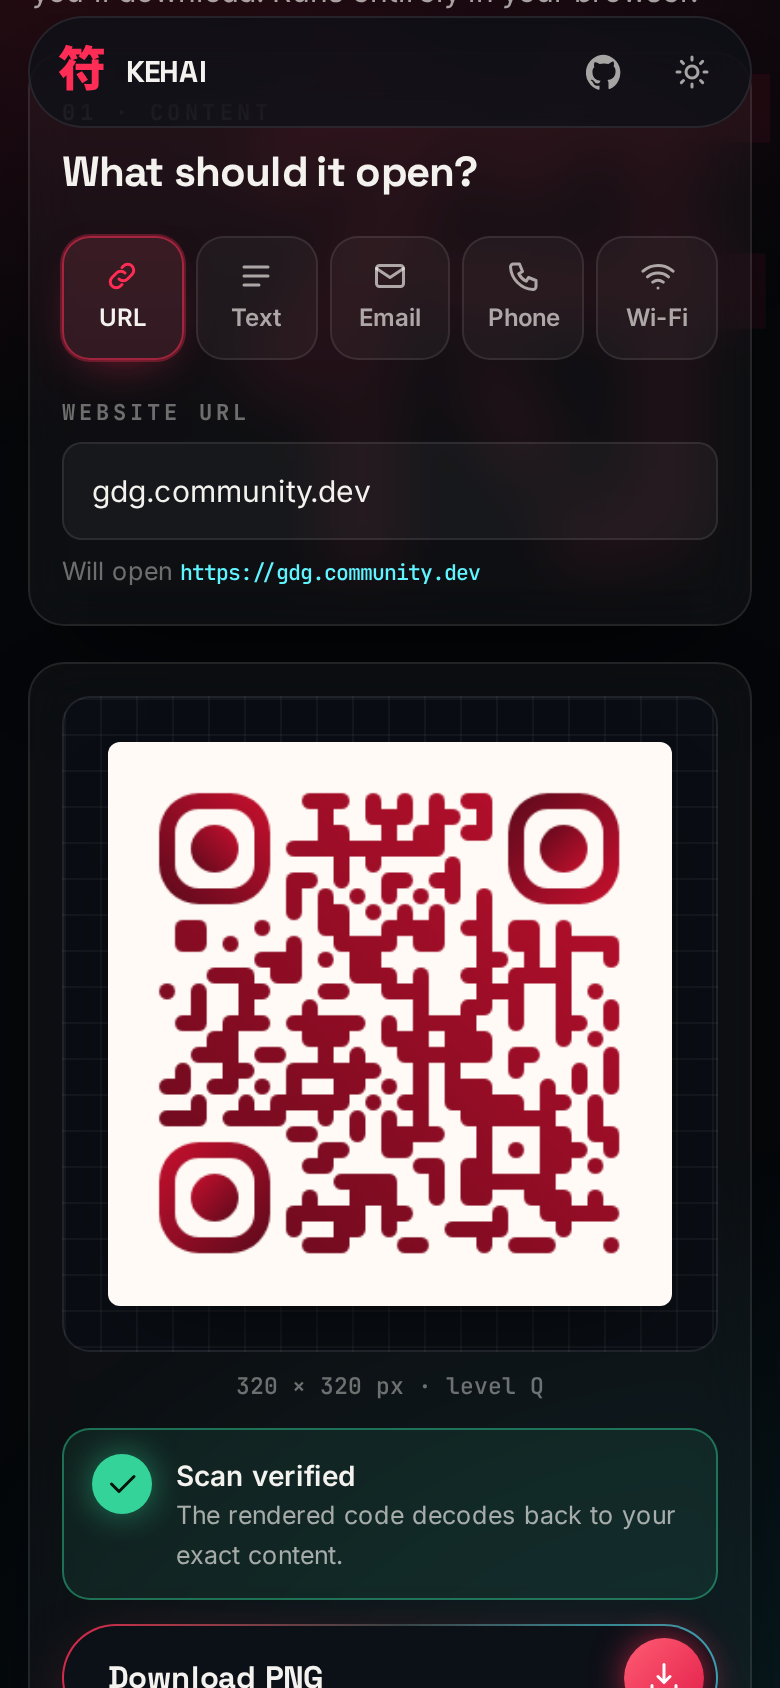
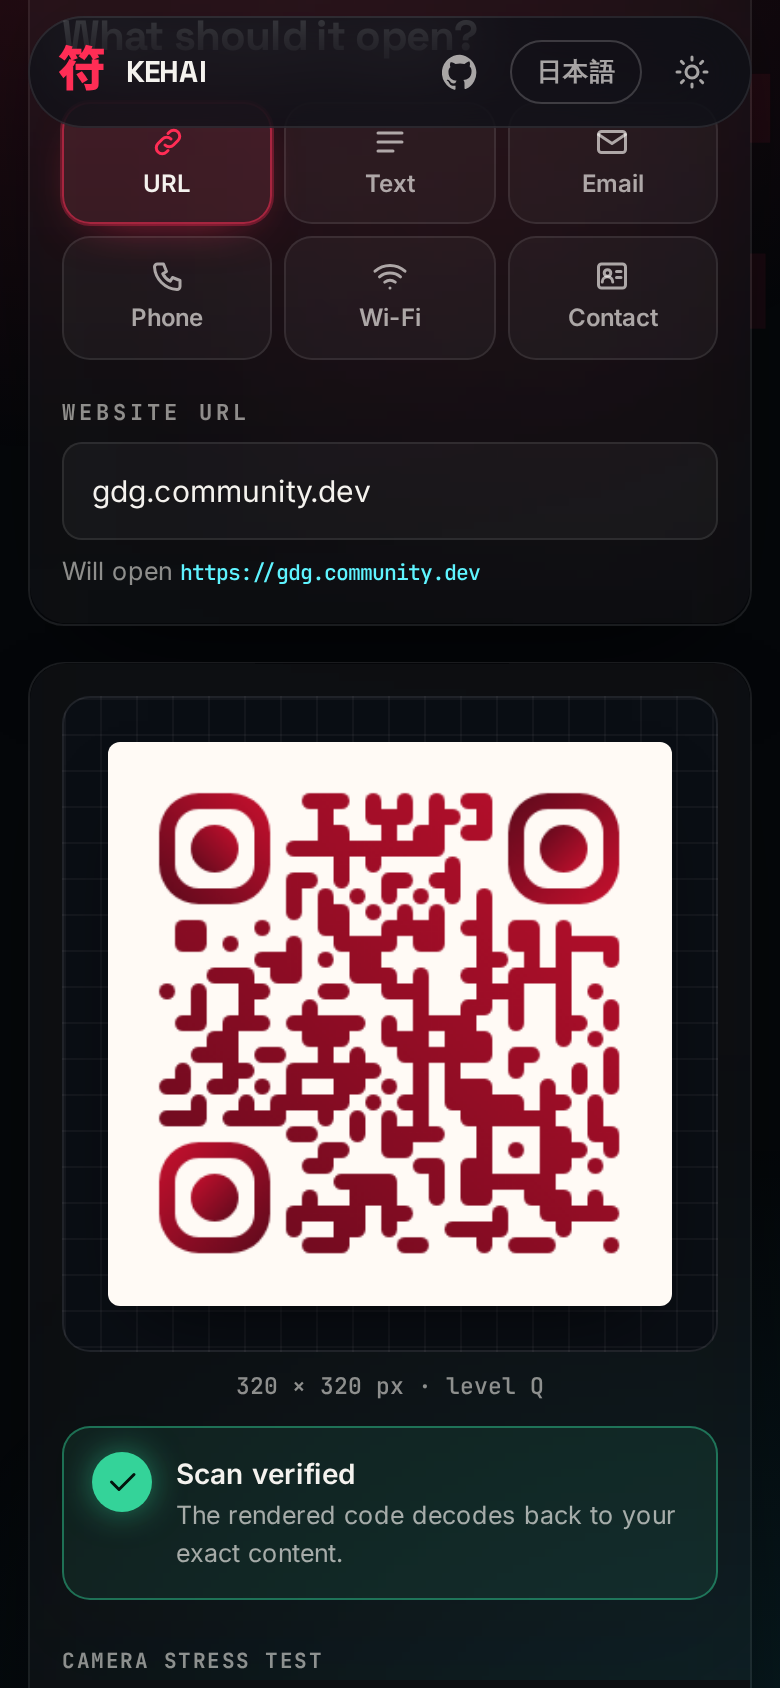
Replace Print-safe and Sumi Ink with Japanese presets Matcha and Aizome; refresh README screenshots

diff --git a/src/lib/design.ts b/src/lib/design.ts
@@ -151,18 +151,18 @@ export const PRESETS: Preset[] = [
     },
   },
   {
-    id: "print",
-    name: "Print-safe",
-    note: "High recovery, wide quiet zone.",
+    id: "matcha",
+    name: "Matcha",
+    note: "Tea green on cream, leaf-round dots.",
     design: {
-      margin: 6,
-      foreground: "#000000",
-      background: "#ffffff",
-      gradient: { enabled: false, type: "linear", color: "#000000", rotation: 0 },
-      errorLevel: "H",
-      dotStyle: "square",
-      cornerStyle: "square",
-      cornerDotStyle: "square",
+      margin: 3,
+      foreground: "#4b6b22",
+      background: "#f6f1df",
+      gradient: { enabled: true, type: "linear", color: "#24380d", rotation: 160 },
+      errorLevel: "Q",
+      dotStyle: "dots",
+      cornerStyle: "extra-rounded",
+      cornerDotStyle: "dot",
     },
   },
   {
@@ -181,18 +181,18 @@ export const PRESETS: Preset[] = [
     },
   },
   {
-    id: "ink",
-    name: "Sumi Ink",
-    note: "Charcoal dots on paper.",
+    id: "aizome",
+    name: "Aizome",
+    note: "Indigo dye on unbleached cotton.",
     design: {
       margin: 3,
-      foreground: "#1c1917",
-      background: "#f5f1e8",
-      gradient: { enabled: false, type: "linear", color: "#1c1917", rotation: 0 },
+      foreground: "#24467a",
+      background: "#f3efe4",
+      gradient: { enabled: true, type: "linear", color: "#0f1d3a", rotation: 45 },
       errorLevel: "Q",
-      dotStyle: "dots",
-      cornerStyle: "dot",
-      cornerDotStyle: "dot",
+      dotStyle: "classy",
+      cornerStyle: "extra-rounded",
+      cornerDotStyle: "square",
     },
   },
 ];

diff --git a/e2e/screenshots.spec.ts b/e2e/screenshots.spec.ts
@@ -60,6 +60,19 @@ test("logo, gradient and the design panel", async ({ page }) => {
   await expectScanState(page, "good");
   await forElementShot(page);
   await page.locator(".panel--preview").screenshot({ path: `${OUT}/logo-gradient.png` });
+});
+
+// The design panel is taller than a normal window. Capture it in a window
+// tall enough to hold it, so the frosted glass (sized to the window) covers
+// the whole panel as it does on screen.
+test("design panel (tall window)", async ({ page }) => {
+  await open(page, "dark", 1440, 2400);
+  await page.getByLabel("Website URL").fill("kehai-engine-web.vercel.app");
+  await page.getByRole("button", { name: /Sakura/ }).click();
+  await page.getByTestId("logo-input").setInputFiles({ name: "logo.svg", mimeType: "image/svg+xml", buffer: LOGO });
+  await page.getByLabel("Gradient").check();
+  await expectScanState(page, "good");
+  await forElementShot(page);
   await page.locator(".panel--design").screenshot({ path: `${OUT}/design-panel.png` });
 });
 
@@ -104,7 +117,7 @@ test("recent codes", async ({ page }) => {
   await save();
   await pickKind(page, "Text");
   await page.getByLabel("Text", { exact: true }).fill("See you at the GDG meetup!");
-  await page.getByRole("button", { name: /Sumi Ink/ }).click();
+  await page.getByRole("button", { name: /Aizome/ }).click();
   await expectScanState(page, "good");
   await save();
   await forElementShot(page);

diff --git a/e2e/studio.spec.ts b/e2e/studio.spec.ts
@@ -435,3 +435,14 @@ test("clicking scatters a kanji burst that cleans up, but not while typing or ti
   // The overlay never blocks clicks underneath.
   expect(await page.locator("#kanji-bursts").evaluate((el) => getComputedStyle(el).pointerEvents)).toBe("none");
 });
+
+test("every preset scans cleanly and passes all three camera stress tests", async ({ page }) => {
+  await page.getByLabel("Website URL").fill("gdg.community.dev/gdg-on-campus-srm");
+  for (const name of ["Classic", "Torii", "Kehai Cyan", "Matcha", "Sakura", "Aizome"]) {
+    await page.getByRole("button", { name: new RegExp(name) }).click();
+    await expectScanState(page, "good"); // verified, and no readability warnings
+    await expect(page.getByTestId("stress")).toHaveAttribute("data-passed", "3");
+    const { buffer } = await downloadVia(page, /Download PNG/);
+    expect(await zxingDecode(buffer)).toBe("https://gdg.community.dev/gdg-on-campus-srm");
+  }
+});

diff --git a/src/i18n/ja.ts b/src/i18n/ja.ts
@@ -216,12 +216,12 @@ export const JA: Record<string, string> = {
   "Kehai vermilion gradient.": "Kehai の朱色グラデーション。",
   "Kehai Cyan": "Kehai シアン",
   "Deep teal, soft modules.": "深いティール、やわらかなモジュール。",
-  "Print-safe": "印刷向け",
-  "High recovery, wide quiet zone.": "高い復元力と広い余白。",
   Sakura: "桜",
+  Matcha: "抹茶",
+  "Tea green on cream, leaf-round dots.": "クリーム地に抹茶色、葉のような丸いドット。",
+  Aizome: "藍染",
+  "Indigo dye on unbleached cotton.": "生成りの木綿に藍染めのグラデーション。",
   "Plum on blossom pink.": "桜色に梅紫。",
-  "Sumi Ink": "墨",
-  "Charcoal dots on paper.": "和紙に墨のドット。",
   "Size & margin": "サイズと余白",
   Size: "サイズ",
   Margin: "余白",

diff --git a/README.md b/README.md
@@ -43,7 +43,7 @@ Every point from the task brief, and where it's handled.
 | 1 | **Generation:** enter a URL or text, generate in real time, show a preview | The preview re-renders on every keystroke (`useQrRenderer`). URLs without a scheme get `https://` added, and the hint shows the final link. |
 | 2 | **Types:** URL, plain text, email, phone, Wi-Fi, with the right inputs per type | All five, plus a sixth: **Contact** (a vCard 3.0 card: the **phone number is required**, and name, email, organisation and website are optional; without a name the card is named after the number, since vCard needs a display name; phones offer "Add to contacts", with RFC 2426 escaping and the name split into family/given). Six type tabs, each showing only its own fields (`ContentForm`). Encoders in `src/lib/qrTypes.ts`: `mailto:` with encoded subject/body, `tel:` normalised to E.164 digits, and the `WIFI:T:…;S:…;P:…;H:…;;` format with correct escaping of `; , : " \`. |
 | 3 | **Customisation:** size, foreground/background, error correction, margin, instant updates | Size 128–1024 px, code and background colours (a full in-house colour picker for any shade, plus a hex field), L/M/Q/H error correction, and margin in *modules* (see design decisions). Every control updates the preview immediately. |
-| 4 | **Presets:** predefined visual presets, editable afterwards | Six presets (Classic, Torii, Kehai Cyan, Print-safe, Sakura, Sumi Ink). A preset only sets appearance and every control stays editable. The panel shows when you've drifted to "Custom". |
+| 4 | **Presets:** predefined visual presets, editable afterwards | Six presets, five of them Japanese-inspired: Classic, Torii (鳥居, vermilion), Kehai Cyan, Matcha (抹茶, tea green), Sakura (桜, blossom) and Aizome (藍染, indigo dye). A preset only sets appearance and every control stays editable. The panel shows when you've drifted to "Custom". |
 | 5 | **Download:** PNG that matches the preview | The preview canvas and the download come from the **same renderer instance**. An end-to-end test asserts the downloaded PNG is **pixel-identical** to the preview canvas. |
 | 6 | **Validation:** validate input, show clear errors | Per-type rules: URL shape and scheme, email address, phone digits (3–15, `+` only at the start), Wi-Fi SSID ≤ 32 bytes, WPA 8–63 chars or 64-hex, WEP 5/13 chars or 10/26 hex, length caps. Errors appear once a field is left, are announced to screen readers, and export stays disabled until the input is valid. |
 | 7 | **Scan reliability:** keep codes scannable, warn about risky choices | **Live scan verification** plus **readability analysis** (details below). |
